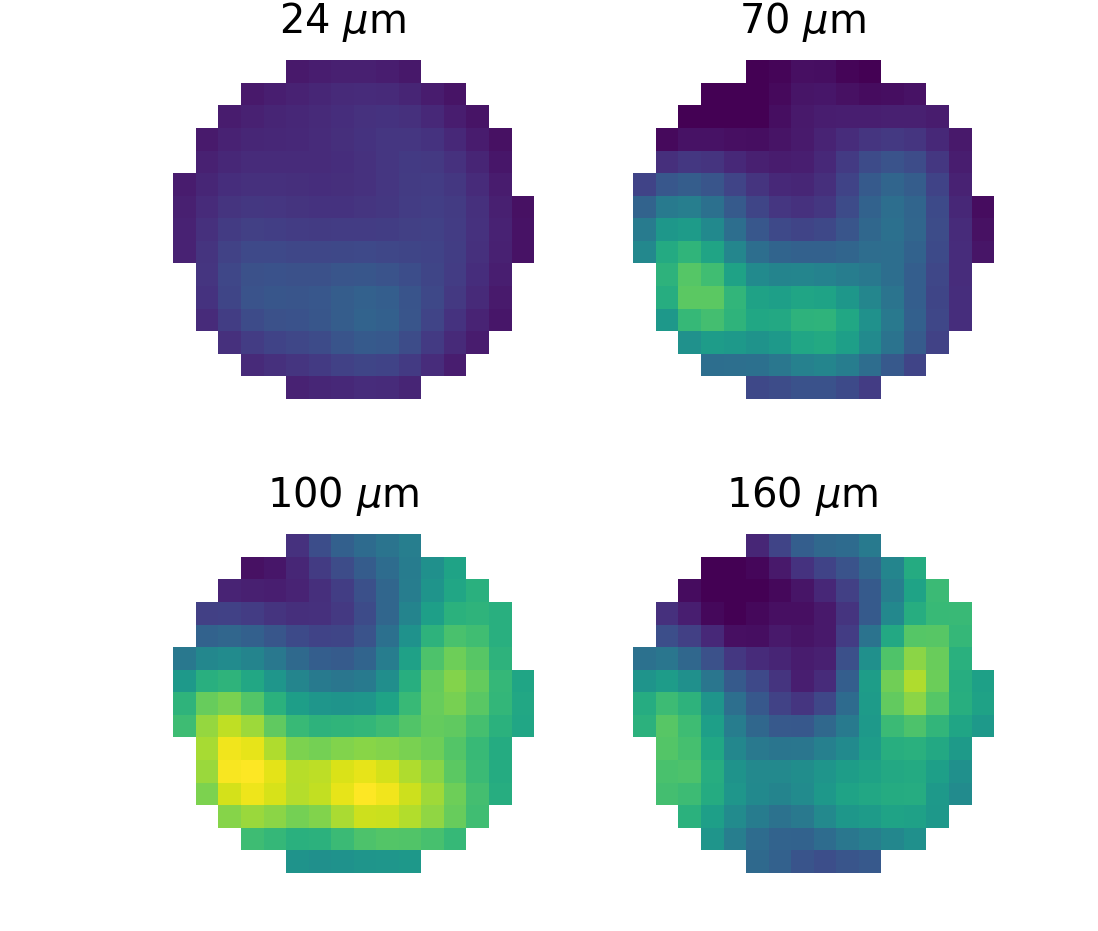
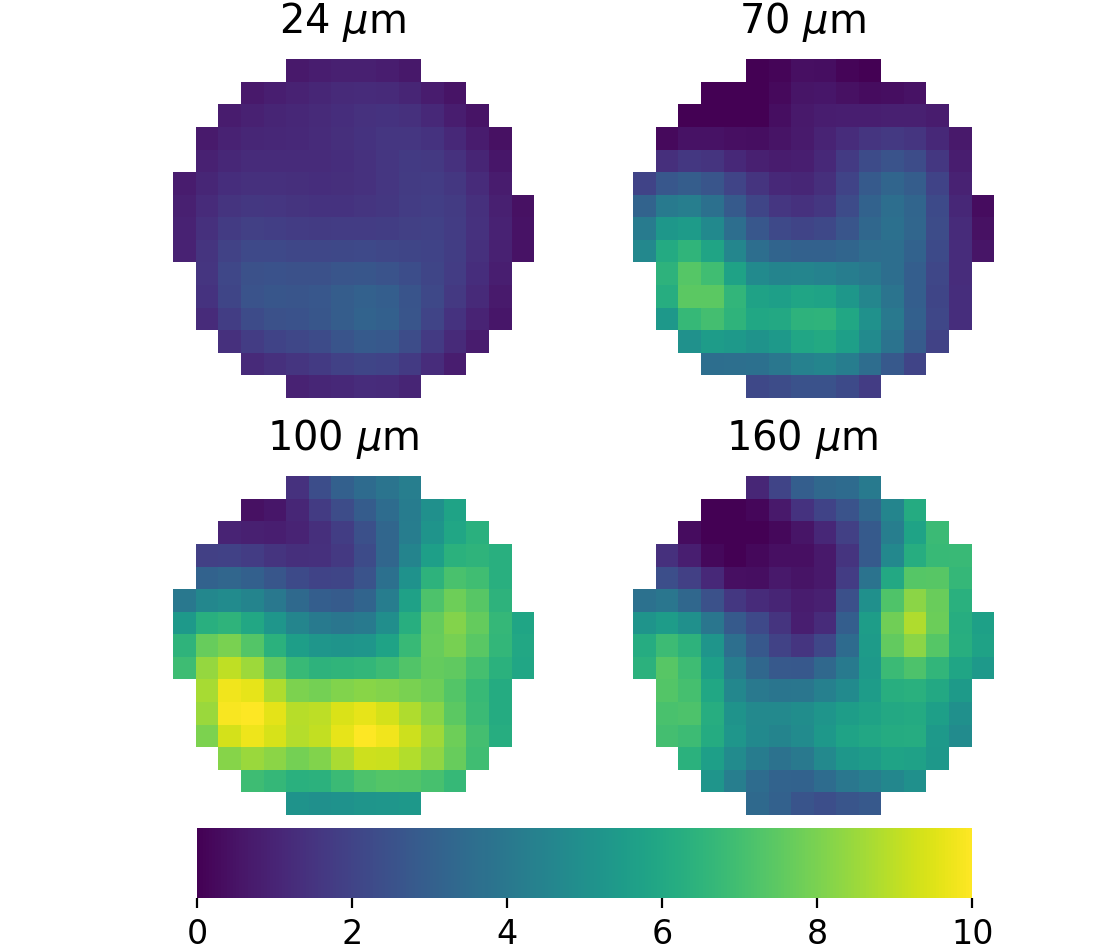
Update plots

diff --git a/Plotting/DataVis_IntegratedSED.py b/Plotting/DataVis_IntegratedSED.py
@@ -1,0 +1,173 @@
+import sys
+sys.path.insert(0, '../SED_Fitting/')
+
+from astropy.io import fits
+import numpy as np
+import matplotlib.pyplot as plt 
+from matplotlib.patches import Rectangle
+from matplotlib.collections import PatchCollection
+import Eqs
+import seaborn as sns
+from scipy.stats import norm
+import matplotlib.mlab as mlab
+from scipy.stats import iqr
+##############
+## Switches ##
+##############
+
+save = True
+# ~~~ Plotting ~~~ #
+# Plot Integrated SED
+plot_integrated = True
+# Plot Chi Squared Confidence Intervals for Integrated SED 
+plot_integrated_ChiSquaredConfidence = True
+
+
+###########
+## Files ##
+###########
+
+files = ['../Final_Files/24/24_SNR_Convolve_Regrid_Prune.fits','../Final_Files/70/70_SNR_Convolve_Regrid_Prune.fits',
+		'../Final_Files/100/100_SNR_Convolve_Regrid_Prune.fits','../Final_Files/160/160_SNR_Prune.fits']
+
+#############
+# Constants #
+#############
+# http://docs.astropy.org/en/stable/constants/
+# Using CGS units
+
+xdim = [116,140]
+ydim = [110,130]
+title = ["24um","70um","100um","160um"]
+
+##################
+# Plotting Range #
+##################
+
+lam, k_amc = Eqs.log_extrap('../SED_Fitting/Kappa/kappa_amc.dat')
+lam, k_mg2 = Eqs.log_extrap('../SED_Fitting/Kappa/kappa_mg2sio4.dat')
+wv = [24,70,100,160]
+pix_area = Eqs.pixarea(files[0])
+
+####################
+# Parameter Ranges #
+####################
+# Create a grid to do a fit
+ColdTemp = np.arange(2,70,1) # Kelvin
+# Fractional Mass of the Sun using Dex
+# Cold Mass
+ColdMass = 10**np.arange(-4,0.1,.1)
+# Warm Mass
+WarmMass = 10**np.arange(-8,-3,.1)
+# Error Intervals
+# 68.3%, 95.4% and 99.73%, or 1, 2 and 3 sigma 
+intervals = [1,4,9]
+##############
+# Get Data   #
+##############
+# Get SNR data, the physical area of each SNR, and the average pixel intensity
+data = []; Areas = []; AverageIntensities = np.zeros(4)
+for i in range(4):
+	AverageIntensity, Area = Eqs.AverageSED(files[i])
+	data.append(fits.open(files[i])[0].data)
+	Areas.append(Area)
+	AverageIntensities[i] = AverageIntensity
+
+# Get the error associated with each intensity
+AverageError = Eqs.error(AverageIntensities)
+
+#############################
+# Load pixel by pixel files #
+#############################
+
+Pix_Warm_SED =  np.load("../SED_Fitting/Sols/PixbyPix/Warm_SED.npy")
+Pix_Cold_SED =  np.load("../SED_Fitting/Sols/PixbyPix/Cold_SED.npy")
+
+# Temperature                                         
+Pix_Temp = np.loadtxt("../SED_Fitting/Sols/PixbyPix/Temperature.txt")
+
+# Mass 
+Pix_Warm_Mass = np.loadtxt("../SED_Fitting/Sols/PixbyPix/WarmMass.txt")
+Pix_Cold_Mass = np.loadtxt("../SED_Fitting/Sols/PixbyPix/ColdMass.txt")   
+
+# Chi Squared Maps                            
+Pix_chisqrd = np.loadtxt("../SED_Fitting/Sols/PixbyPix/ChiSquared.txt")
+
+#########################
+# Load integrated files #
+#########################
+
+cold_sed = np.loadtxt("../SED_Fitting/Sols/Integrated/cold_sed.txt")
+warm_sed = np.loadtxt("../SED_Fitting/Sols/Integrated/warm_sed.txt")
+chi_squared_cube = np.load("../SED_Fitting/Sols/Integrated/chi_squared_cube.npy")
+temp,cold_mass,warm_mass,chi_squared = np.loadtxt("../SED_Fitting/Sols/Integrated/temp_coldmass_warmmass_chisqrd.txt")
+total_sed = cold_sed + warm_sed
+
+##########
+# Plot   #
+##########
+if plot_integrated:
+	fig = plt.figure(figsize=(11,8))
+	plot = fig.add_subplot(111)
+	# Plot SEDs
+	plot.plot(lam,total_sed,color="#424186")
+	plot.plot(lam,warm_sed,color="#84D44B",ls='dashed') 
+	plot.plot(lam,cold_sed,color="#23A883")
+	# Plot Measured Values
+	plot.errorbar([24,70,100,160],AverageIntensities,yerr=AverageError,marker='o',linestyle='none',color="black")
+	# Plot Labels
+	plot.set_xlabel("Wavelength ($\mu m$)",size=18)
+	plot.set_ylabel("Spectral Intensity (MJy sr$^{-1}$)",size=18)
+	plot.set_title("Integrated Spectral Energy Distribution",size=20)
+	plot.legend(("Total SED","Warm SED","Cold SED"),prop={'size':14})
+	
+	plot.tick_params(axis='both', which='major', labelsize=16)
+	plot.tick_params(axis='both', which='minor', labelsize=14)
+	
+	plot.grid(color='white',linestyle='-')
+	plot.set_facecolor("#EAEAF2")
+
+	print(("Temp {} Cold Mass {} Warm Mass {} Total Mass {} Chi Squared {} ").format(temp,cold_mass,warm_mass,cold_mass+warm_mass,chi_squared))
+	if save:
+		plt.savefig("Plots/IntegratedSED.png")
+
+if plot_integrated_ChiSquaredConfidence:
+
+	def ChiSquaredMap(Map,interval):
+		Map = np.copy(Map)
+		# Change everything outside the interval to NaN.
+		R,C = np.where(Map > (chi_squared + interval))
+		Map[R,C] = np.nan 
+		return np.copy(Map)
+
+	f, axes = plt.subplots(3,2)
+	
+	# What the elements actually represent on an axis
+	physical_X = [np.where(np.isclose(ColdMass,cold_mass))[0][0],
+					np.where(np.isclose(ColdTemp,temp))[0][0],
+						np.where(np.isclose(ColdMass,cold_mass))[0][0]]
+
+	physical_Y = [np.where(np.isclose(WarmMass,warm_mass))[0][0],
+					np.where(np.isclose(WarmMass,warm_mass))[0][0],
+						np.where(np.isclose(ColdTemp,temp))[0][0]]
+	
+	titles = ["68.3% Confidence","95.4% Confidence"]
+	ylabels = ["Warm Dust Mass M$_\odot$","Warm Dust Mass M$_\odot$","Temperature K",]
+	xlabels = ["Cold Dust Mass M$_\odot$", "Temperature K", "Cold Dust Mass M$_\odot$"]
+	
+	# Temperature Slice, Cold Mass Slice, Warm Mass Slice at solutions
+	chi_squared_slices = [np.copy(chi_squared_cube)[:,physical_X[1],:],
+							np.copy(chi_squared_cube)[:,:,physical_X[0]],
+								np.copy(chi_squared_cube)[physical_Y[0],:,:]]
+	
+	for i in range(3):
+		for j in range(2):
+			img = ChiSquaredMap(chi_squared_slices[i],intervals[j])
+			axes[i,j].imshow(img)
+			axes[i,j].scatter(physical_X[i],physical_Y[i],s=5,c='r')
+			axes[i,j].set_ylim(physical_Y[i]-10,physical_Y[i]+10); axes[i,j].set_xlim(physical_X[i]-10,physical_X[i]+10);
+			axes[i,j].set_xlabel(xlabels[i]); axes[i,j].set_ylabel(ylabels[i])
+   
+	axes[0,0].set_title(titles[0])
+	axes[0,1].set_title(titles[1])  
+plt.show()

diff --git a/Plotting/DataVis_E0102.py b/Plotting/DataVis_E0102.py
@@ -1,0 +1,129 @@
+import sys
+sys.path.insert(0, '../SED_Fitting/')
+
+from astropy.io import fits
+import numpy as np
+import matplotlib.pyplot as plt 
+from matplotlib.patches import Rectangle
+from matplotlib.collections import PatchCollection
+import Eqs
+import seaborn as sns
+from scipy.stats import norm
+import matplotlib.mlab as mlab
+from scipy.stats import iqr
+##############
+## Switches ##
+##############
+
+save = True
+# ~~~ Plotting ~~~ #
+# Plot 4 Background Removed and Convolved/Regridded to 160 images.
+plot_imgs = False
+
+
+###########
+## Files ##
+###########
+
+files = ['../Final_Files/24/24_SNR_Convolve_Regrid_Prune.fits','../Final_Files/70/70_SNR_Convolve_Regrid_Prune.fits',
+		'../Final_Files/100/100_SNR_Convolve_Regrid_Prune.fits','../Final_Files/160/160_SNR_Prune.fits']
+
+#############
+# Constants #
+#############
+# http://docs.astropy.org/en/stable/constants/
+# Using CGS units
+
+xdim = [116,140]
+ydim = [110,130]
+title = ["24um","70um","100um","160um"]
+
+##################
+# Plotting Range #
+##################
+
+lam, k_amc = Eqs.log_extrap('../SED_Fitting/Kappa/kappa_amc.dat')
+lam, k_mg2 = Eqs.log_extrap('../SED_Fitting/Kappa/kappa_mg2sio4.dat')
+wv = [24,70,100,160]
+pix_area = Eqs.pixarea(files[0])
+
+##############
+# Get Data   #
+##############
+# Get SNR data, the physical area of each SNR, and the average pixel intensity
+data = []; Areas = []; AverageIntensities = np.zeros(4)
+for i in range(4):
+	AverageIntensity, Area = Eqs.AverageSED(files[i])
+	data.append(fits.open(files[i])[0].data)
+	Areas.append(Area)
+	AverageIntensities[i] = AverageIntensity
+
+# Get the error associated with each intensity
+AverageError = Eqs.error(AverageIntensities)
+
+
+##########
+# Plot   #
+##########
+
+# Single Colorbar
+f, axes = plt.subplots(2,2,figsize=(10,15))
+x1 = 116; x2 = 140; y1 = 112; y2 = 128
+vmin = 0; vmax = 10
+axes[0,0].imshow(fits.open(files[0])[0].data,vmin=vmin,vmax=vmax)
+axes[0,1].imshow(fits.open(files[1])[0].data,vmin=vmin,vmax=vmax)
+axes[1,0].imshow(fits.open(files[2])[0].data,vmin=vmin,vmax=vmax)
+cax = axes[1,1].imshow(fits.open(files[3])[0].data,vmin=vmin,vmax=vmax)
+axes[0,0].set_xlim(x1,x2); axes[0,0].set_ylim(y1,y2); axes[0,0].axis("off")
+axes[0,1].set_xlim(x1,x2); axes[0,1].set_ylim(y1,y2); axes[0,1].axis("off")
+axes[1,0].set_xlim(x1,x2); axes[1,0].set_ylim(y1,y2); axes[1,0].axis("off")
+axes[1,1].set_xlim(x1,x2); axes[1,1].set_ylim(y1,y2); axes[1,1].axis("off") 
+ 
+axes[0,0].set_title("24 $\mu$m",fontsize="x-large"); axes[0,1].set_title("70 $\mu$m",fontsize="x-large")
+axes[1,0].set_title("100 $\mu$m",fontsize="x-large"); axes[1,1].set_title("160 $\mu$m",fontsize="x-large")
+f.set_size_inches(5, 5)
+
+
+p0 = axes[1,0].get_position().get_points().flatten()
+p1 = axes[1,1].get_position().get_points().flatten()
+
+ax_cbar = f.add_axes([p0[0], 0.1, p1[2]-p0[0], 0.07])
+cbar = plt.colorbar(cax, cax=ax_cbar, orientation='horizontal')
+cbar.outline.set_visible(False)
+cbar.ax.tick_params(labelsize=12) 
+plt.subplots_adjust(wspace=-.15,hspace=-.1,top=1,bottom=.120,right=1,left=0)
+
+if save:
+	plt.savefig("Plots/E0102_Regrid_Convolved.png",dpi=200, bbox_inches='tight', pad_inches = 0 )
+
+# Individual Colorbar 
+
+fig, axs = plt.subplots(2,2,figsize=(10,15))
+x1 = 116; x2 = 140; y1 = 112; y2 = 128
+vmin = 0; vmax = 10
+
+titles = ["24 $\mu$m","70 $\mu$m","100 $\mu$m","160 $\mu$m"] 
+cbar_pad = [0.47,0.93,0.47,0.93]
+#fig.set_size_inches(5, 5)
+#ims = [im1,im2,im3,im4]
+
+count = 0
+for i in range(2):
+	for j in range(2):
+		im = axs[i,j].imshow(fits.open(files[count])[0].data,vmin=vmin,vmax=np.nanmax(fits.open(files[count])[0].data))
+		axs[i,j].set_xlim(x1,x2); axs[i,j].set_ylim(y1,y2); axs[i,j].axis("off")
+		axs[i,j].set_title(titles[count],fontsize="x-large")
+
+		points = axs[i,j].get_position().get_points().flatten()
+		ax_cb = fig.add_axes([cbar_pad[count],points[1]+0.07,.035,.35])
+		print(points)
+		cb = plt.colorbar(im,cax=ax_cb)
+		cb.ax.tick_params(labelsize=12) 
+		cb.outline.set_visible(False)
+		count += 1
+plt.subplots_adjust(wspace=-.15,hspace=-.1,top=1,bottom=.120,right=1,left=0)
+
+if save:
+	plt.savefig("Plots/E0102_Regrid_Convolved_Individual.png",dpi=200, bbox_inches='tight', pad_inches = 0 )
+
+plt.show()

diff --git a/Plotting/DataVisualization.py b/Plotting/DataVisualization.py
@@ -141,7 +141,7 @@ if plot_integrated:
 	plot.errorbar([24,70,100,160],AverageIntensities,yerr=AverageError,marker='o',linestyle='none',color="black")
 	# Plot Labels
 	plot.set_xlabel("Wavelength ($\mu m$)",size=18)
-	plot.set_ylabel("Spectral Intensity (Mjy sr$^{-1}$)",size=18)
+	plot.set_ylabel("Spectral Intensity (MJy sr$^{-1}$)",size=18)
 	plot.set_title("Integrated Spectral Energy Distribution",size=20)
 	plot.legend(("Total SED","Warm SED","Cold SED"),prop={'size':14})
 	
